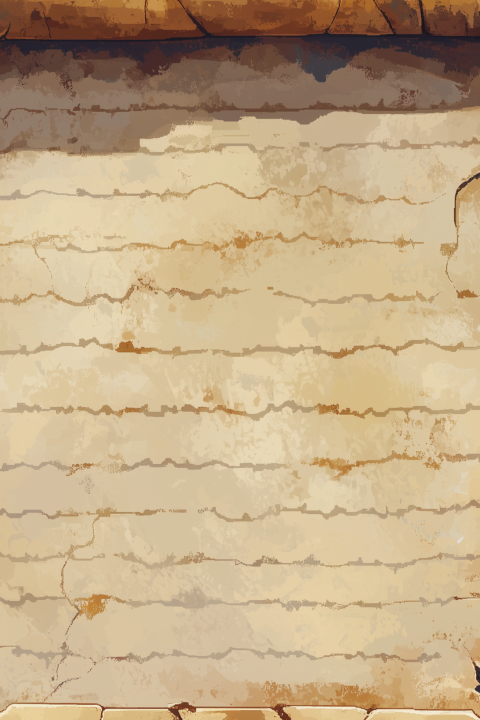
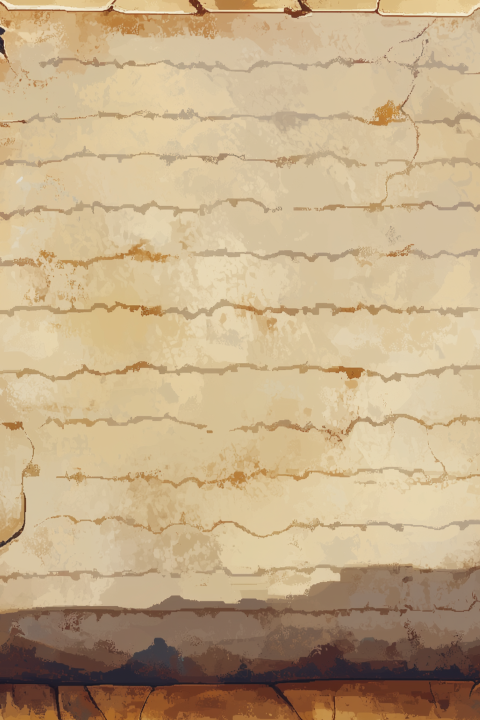
update stat

diff --git a/main.py b/main.py
@@ -1,16 +1,18 @@
 # projectIK
 import pygame as pg
 import event as ev
-import random
 
 # 기본 변수
 PLAY = True
+# 상단 이미지
+stat = [pg.image.load('background/stat.png')]
 
 while PLAY:    
     for event in pg.event.get():
         if event.type == pg.QUIT:
             PLAY = False
 
+    ev.screen.blit(stat[0], (0, 0))
     if ev.day <= 1:
         ev.main_e1()
     elif ev.day == 4:
